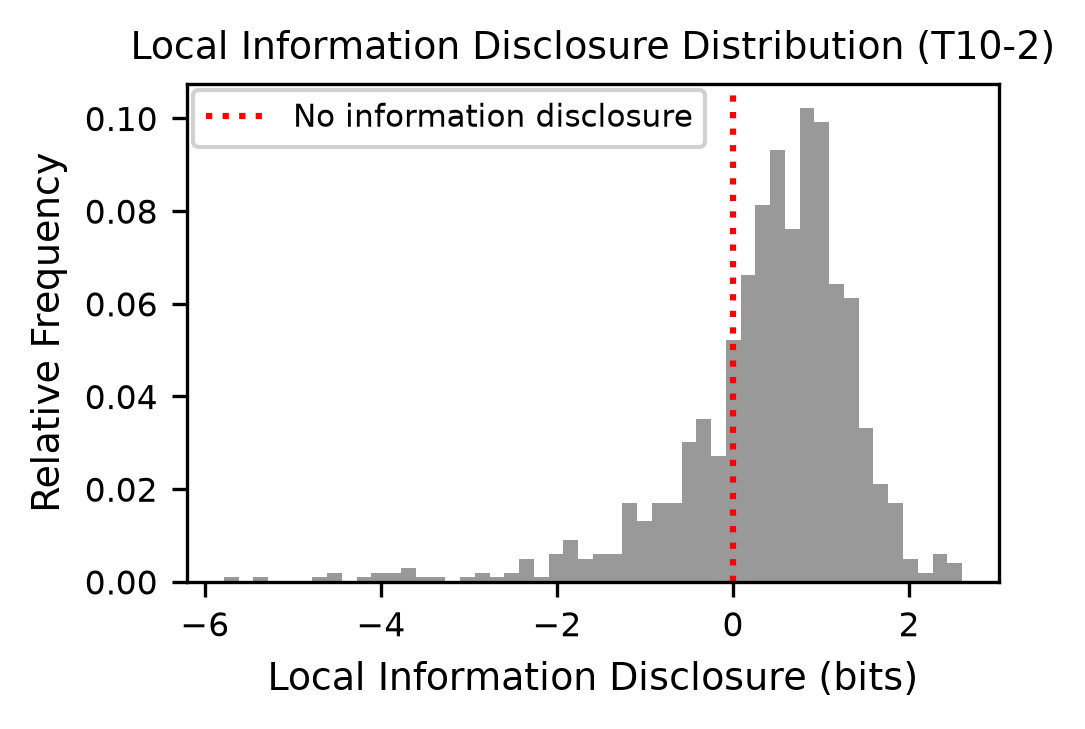
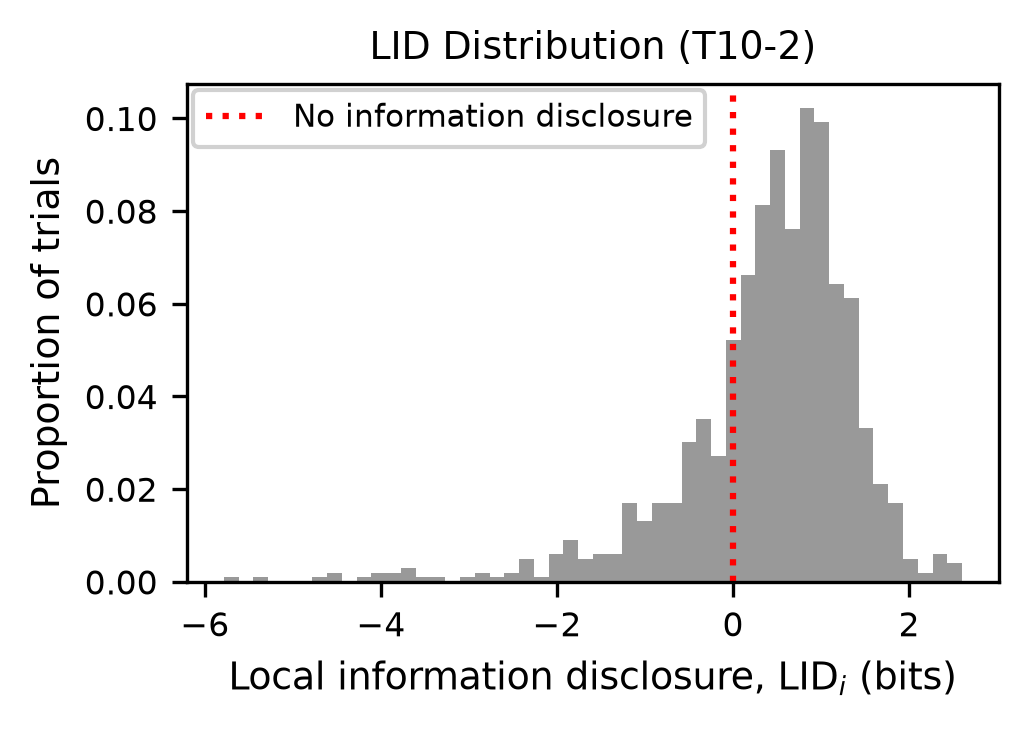
Fix labels for plots

diff --git a/src/6_create_plots_and_summaries.py b/src/6_create_plots_and_summaries.py
@@ -56,6 +56,8 @@ def configure_matplotlib():
             "legend.fontsize": 7.5,
             "figure.figsize": (3.5, 2.5),
             "figure.dpi": 300,
+            "pdf.fonttype": 42,
+            "ps.fonttype": 42,
         }
     )
 
@@ -90,7 +92,7 @@ def plot_metric(
 
     ax.set_title(title)
     ax.set_xlabel(xlabel)
-    ax.set_ylabel("Relative Frequency")
+    ax.set_ylabel("Proportion of trials")
     ax.set_ylim(bottom=0)
 
     if baseline_val is not None:
@@ -153,8 +155,8 @@ def plot_probability_distribution(experiment_dir, df_lid, out_dir):
     return plot_metric(
         df_lid,
         column="p",
-        title=f"Target Recognition Probability Distribution ({experiment_dir.name})",
-        xlabel="Probability",
+        title=f"Attacker Confidence Distribution ({experiment_dir.name})",
+        xlabel=r"Probability assigned to true identity, $p_{i,m_i}$",
         out_dir=out_dir,
         filename_base="probability_distribution",
         baseline_val=1.0 / n_enrolments,
@@ -166,8 +168,8 @@ def plot_lid_distribution(experiment_dir, df_lid, out_dir):
     return plot_metric(
         df_lid,
         column="LID",
-        title=f"Local Information Disclosure Distribution ({experiment_dir.name})",
-        xlabel="Local Information Disclosure (bits)",
+        title=f"LID Distribution ({experiment_dir.name})",
+        xlabel=r"Local information disclosure, $\mathrm{LID}_i$ (bits)",
         out_dir=out_dir,
         filename_base="lid_distribution",
         baseline_val=0.0,
@@ -225,9 +227,10 @@ def plot_combined_lid_ccdf(all_lid_data, out_dir):
         pos_ratio = float(np.mean(valid_scores > 0))
         color, linestyle = experiment_plot_style(experiment_name)
 
-        ax.plot(
+        ax.step(
             sorted_scores,
             y_vals,
+            where="post",  # A step function accurately represents the empirical CCDF.
             linewidth=1.5,
             label=f"{experiment_name} (Avg: {avg:.2f}, Max: {mx:.2f}, Pos: {pos_ratio:.1%})",
             color=color,
@@ -241,9 +244,9 @@ def plot_combined_lid_ccdf(all_lid_data, out_dir):
     #     linewidth=1.5,
     #     label="No information disclosure",
     # )
-    ax.set_title("Combined Local Information Disclosure CCDF")
-    ax.set_xlabel("Local Information Disclosure (bits)")
-    ax.set_ylabel("Trials Exceeding Disclosure Level (%)")
+    ax.set_title("Local Information Disclosure Across Systems")
+    ax.set_xlabel(r"Local information disclosure, $\mathrm{LID}_i$ (bits)")
+    ax.set_ylabel("Trials exceeding disclosure level (%)")
     ax.set_ylim([0.0, 100.0])
     ax.legend(
         loc="lower left",
@@ -443,16 +446,16 @@ def plot_summary_visuals(df_summary, out_dir):
 
     type_handles = [
         mlines.Line2D(
-            [], [], color="gray", marker="x", linestyle="None", markersize=5, label="LID_max"
+            [], [], color="gray", marker="x", linestyle="None", markersize=5, label=r"$\mathrm{LID}_{\max}$"
         ),
         mlines.Line2D(
-            [], [], color="gray", marker="^", linestyle="None", markersize=5, label="LID+"
+            [], [], color="gray", marker="^", linestyle="None", markersize=5, label=r"$\mathrm{LID}^{+}$"
         ),
         mlines.Line2D(
-            [], [], color="gray", marker="o", linestyle="None", markersize=5, label="ALID"
+            [], [], color="gray", marker="o", linestyle="None", markersize=5, label=r"$\mathrm{ALID}$"
         ),
         mlines.Line2D(
-            [], [], color="gray", marker="v", linestyle="None", markersize=5, label="LID-"
+            [], [], color="gray", marker="v", linestyle="None", markersize=5, label=r"$\mathrm{LID}^{-}$"
         ),
     ]
 
